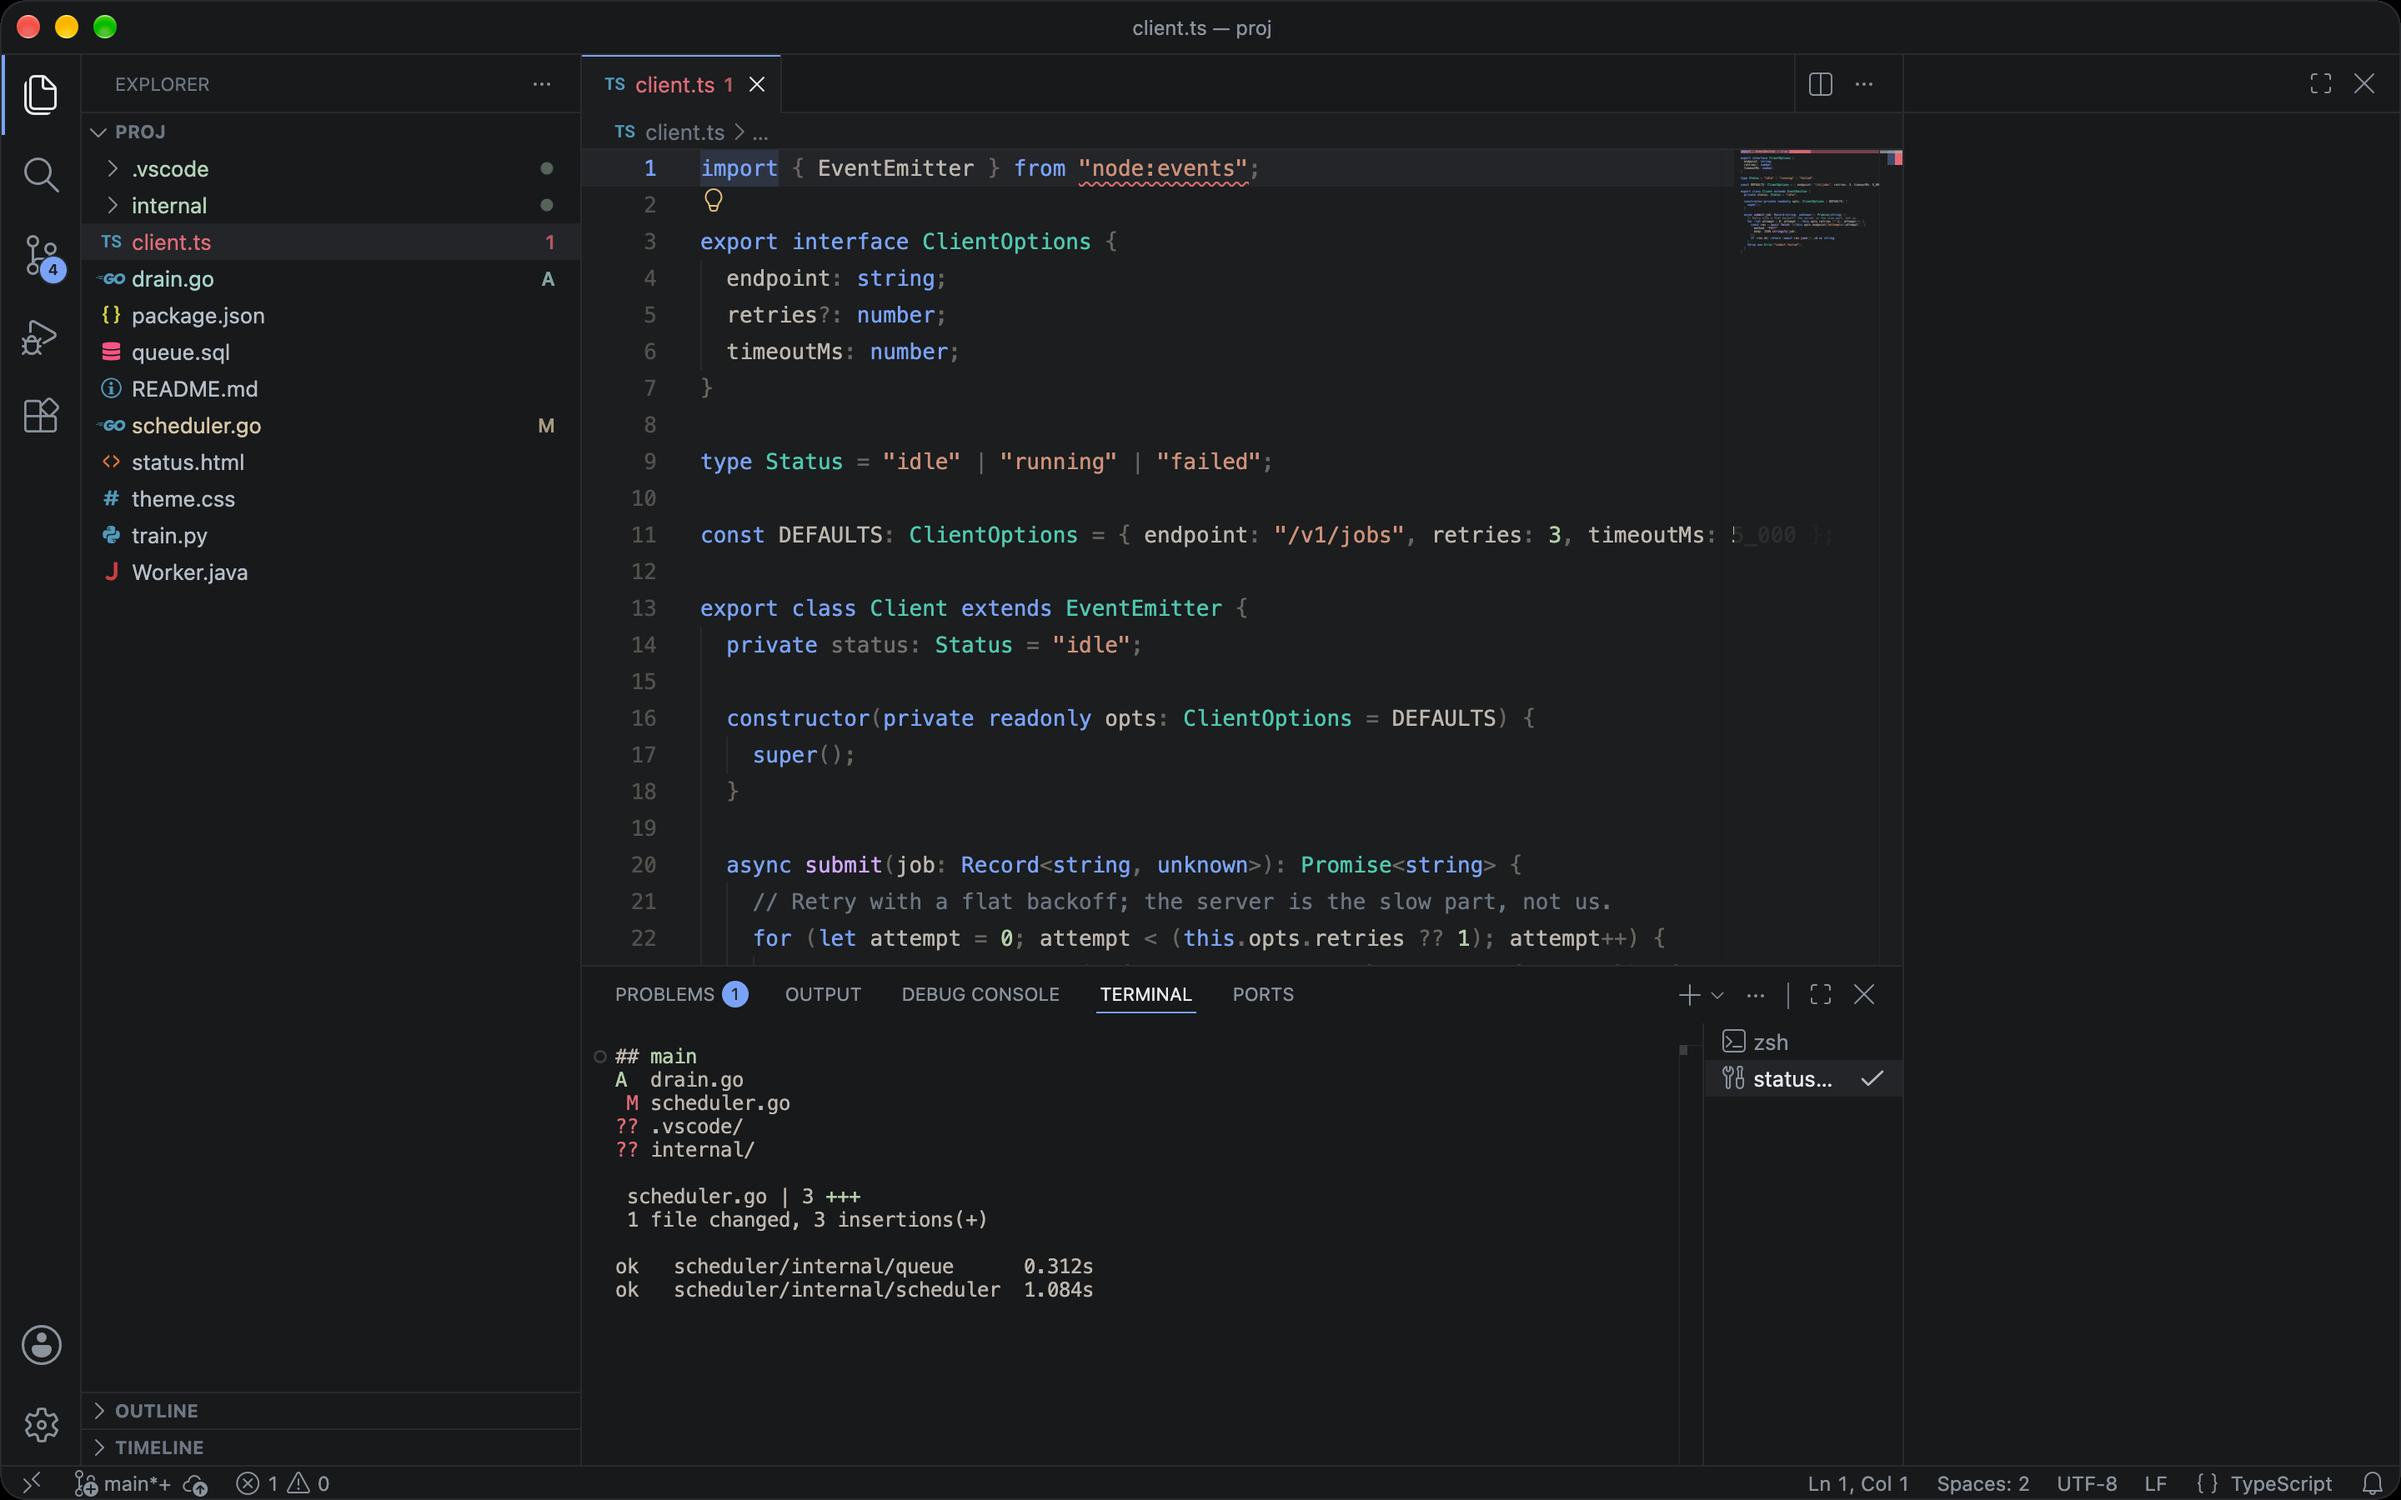
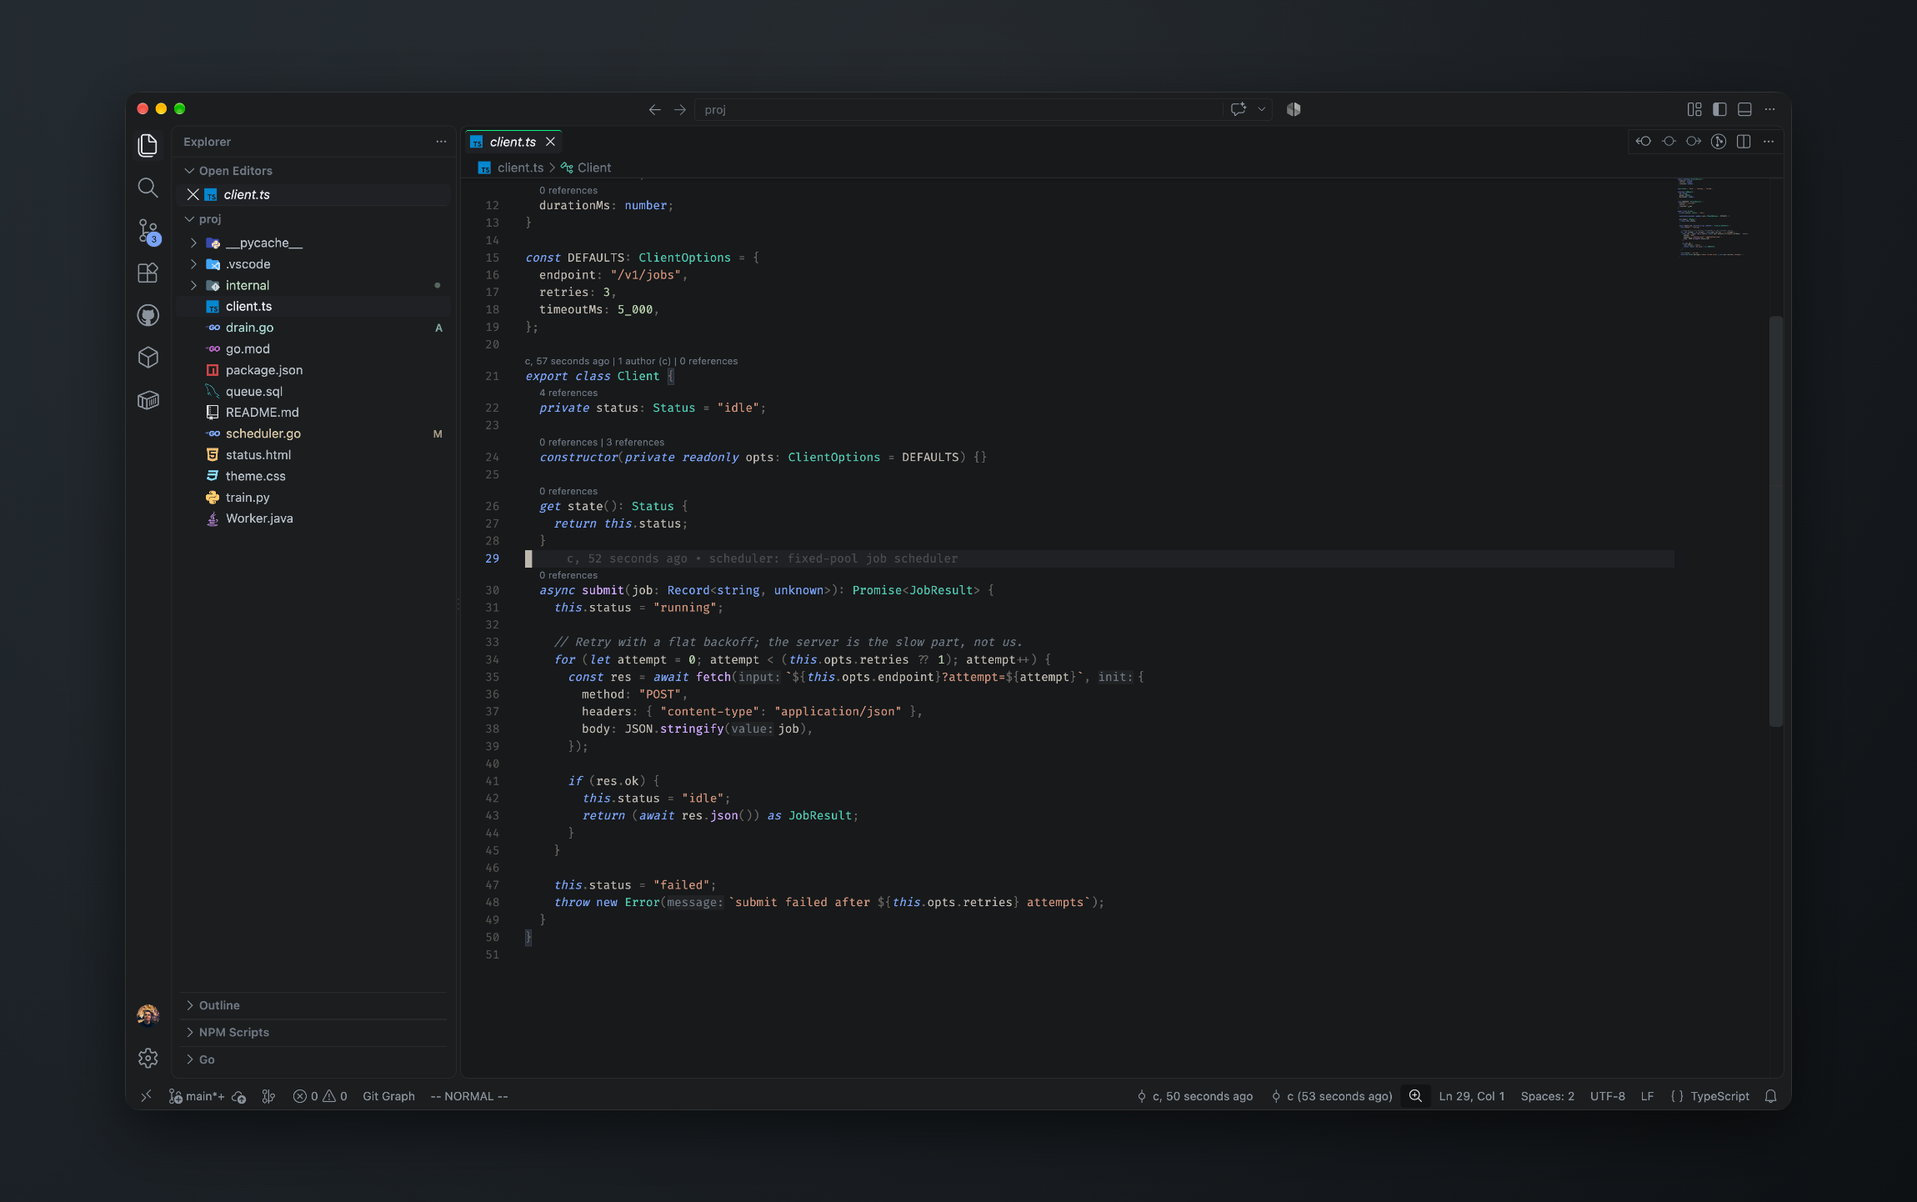
Use real editor screenshots supplied for the README
Captures from a real VS Code window on the fixed sample project.
Editor and chrome backgrounds verified exact against the palette in
all three variants; git decoration colours match.

Captions generalised: the images no longer show a terminal panel.

diff --git a/README.md b/README.md
@@ -70,13 +70,13 @@ Pick a variant with `chalkdraw-deep`, `chalkdraw-flat` or `chalkdraw-paper`. Tre
 
 ## Screenshots
 
-**Flat — TypeScript and the integrated terminal**
+**Flat — the same two greys, inverted**
 
-![Chalkdraw Flat — TypeScript and the integrated terminal](./resources/screenshots/chalkdraw-flat.png)
+![Chalkdraw Flat](./resources/screenshots/chalkdraw-flat.png)
 
-**Paper — the light variant, in Python**
+**Paper — the light variant**
 
-![Chalkdraw Paper — Python](./resources/screenshots/chalkdraw-paper.png)
+![Chalkdraw Paper](./resources/screenshots/chalkdraw-paper.png)
 
 <br />
 
